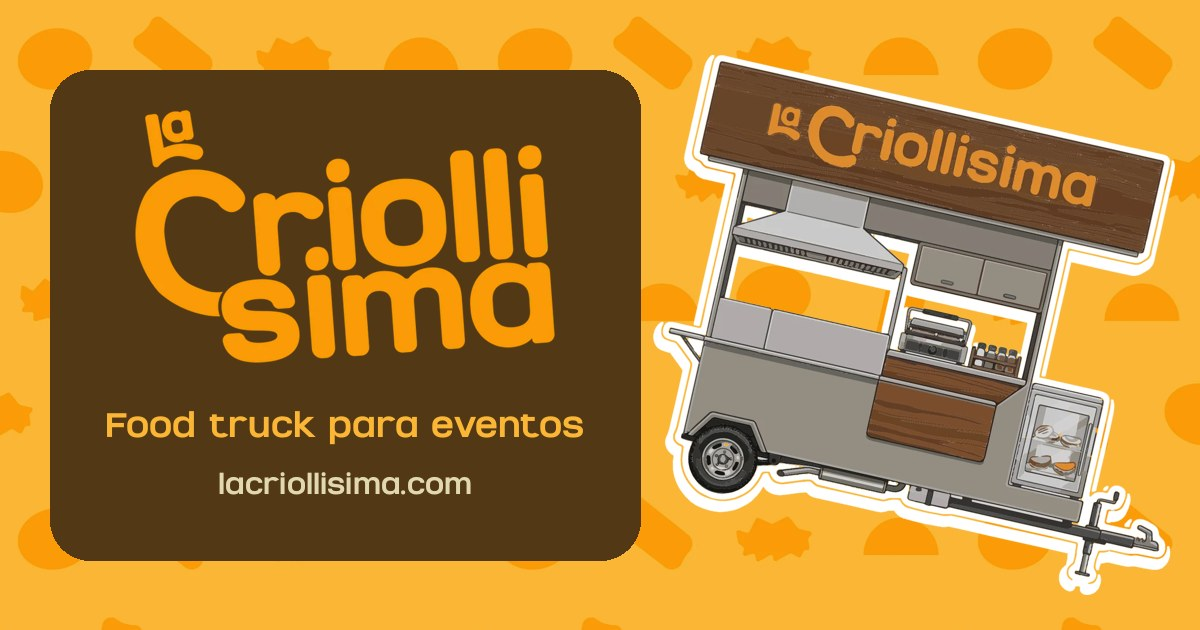
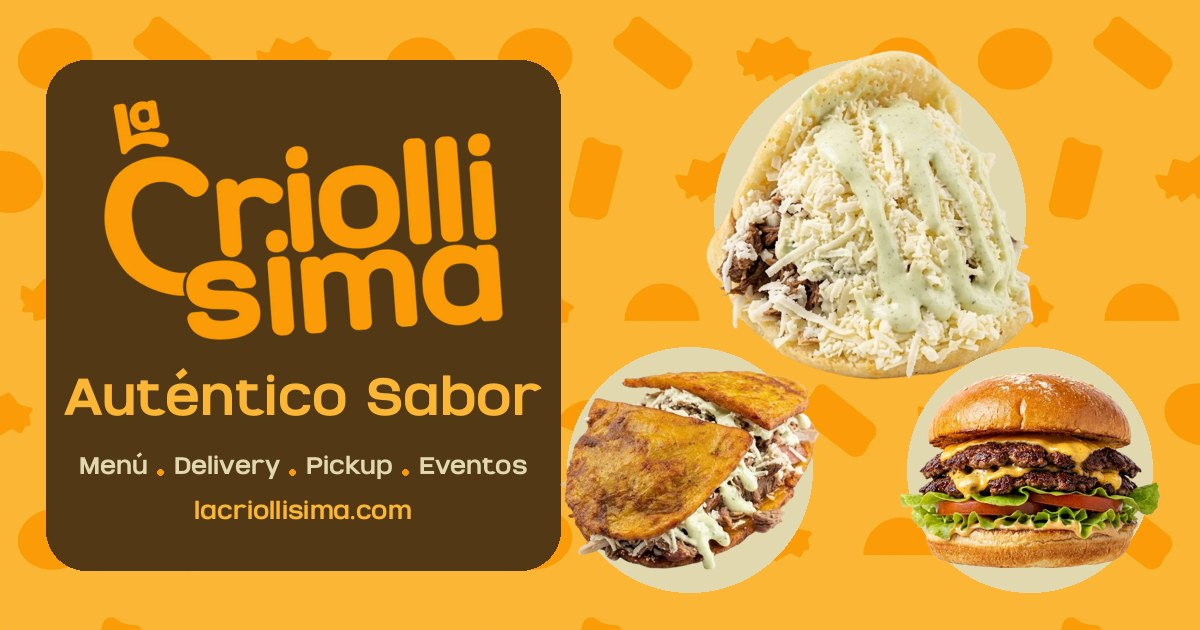
Nueva carátula al compartir; botones de pedido llevan a elegir delivery o pickup
Claude-Session: https://claude.ai/code/session_01EoPTKvU1ZUS4pUZSX4xZLg

diff --git a/menu.html b/menu.html
@@ -29,7 +29,7 @@
   <div class="wrap">
     <a class="marca" href="index.html"><img src="img/logo-horizontal.webp" alt="La Criollísima, ir al inicio" width="900" height="160"></a>
     <nav aria-label="Principal" class="nav-escritorio"><ul><li><a href="index.html">Inicio</a></li><li><a href="menu.html" aria-current="page">Menú</a></li><li><a href="delivery.html">Pedidos</a></li><li><a href="food-truck.html">Food truck</a></li><li><a href="conocenos.html">Conócenos</a></li><li><a href="contacto.html">Contacto</a></li></ul></nav>
-    <a class="pedir" href="https://wa.me/584246540852" data-wa="Hola, La Criollísima. Quiero hacer un pedido." target="_blank" rel="noopener"><svg viewBox="0 0 24 24" fill="currentColor" aria-hidden="true"><path d="M12 2a10 10 0 0 0-8.6 15.1L2 22l5-1.3A10 10 0 1 0 12 2Zm0 18.2a8.2 8.2 0 0 1-4.2-1.2l-.3-.2-3 .8.8-2.9-.2-.3A8.2 8.2 0 1 1 12 20.2Zm4.5-6.1c-.2-.1-1.5-.7-1.7-.8-.2-.1-.4-.1-.6.1l-.8 1c-.1.2-.3.2-.5.1a6.7 6.7 0 0 1-3.3-2.9c-.3-.4.3-.4.7-1.3.1-.2 0-.3 0-.4l-.8-1.8c-.2-.5-.4-.4-.6-.4h-.5a1 1 0 0 0-.7.3 3 3 0 0 0-.9 2.2 5.2 5.2 0 0 0 1.1 2.7 11.8 11.8 0 0 0 4.5 4c1.7.7 2.3.8 3.2.6.5-.1 1.5-.6 1.7-1.2.2-.6.2-1.1.2-1.2-.1-.1-.3-.2-.5-.3Z"/></svg><span class="txt-largo">Pedir por WhatsApp</span><span class="txt-corto">Pedir</span></a>
+    <a class="pedir" href="delivery.html#pedido"><svg viewBox="0 0 24 24" fill="none" stroke="currentColor" stroke-width="2.2" stroke-linecap="round" stroke-linejoin="round" aria-hidden="true"><path d="M5 8h14l-1.2 12H6.2L5 8Z"/><path d="M9 8V6a3 3 0 0 1 6 0v2"/></svg><span class="txt-largo">Hacer un pedido</span><span class="txt-corto">Pedir</span></a>
   </div>
 </header>
 <nav class="tabbar" aria-label="Secciones"><a href="index.html"><svg viewBox="0 0 24 24" fill="none" stroke="currentColor" stroke-width="2" stroke-linecap="round" stroke-linejoin="round" aria-hidden="true"><path d="M3 11.5 12 4l9 7.5"/><path d="M5.5 10v10h13V10"/><path d="M10 20v-5h4v5"/></svg><span>Inicio</span></a><a href="menu.html" aria-current="page"><svg viewBox="0 0 24 24" fill="none" stroke="currentColor" stroke-width="2" stroke-linecap="round" stroke-linejoin="round" aria-hidden="true"><path d="M7 3v8M4.5 3v5a2.5 2.5 0 0 0 5 0V3M7 11v10"/><path d="M17 21V3c-2 1-3.5 3.5-3.5 7 0 2 1 3 3.5 3"/></svg><span>Menú</span></a><a href="delivery.html"><svg viewBox="0 0 24 24" fill="none" stroke="currentColor" stroke-width="2" stroke-linecap="round" stroke-linejoin="round" aria-hidden="true"><path d="M5 8h14l-1.2 12H6.2L5 8Z"/><path d="M9 8V6a3 3 0 0 1 6 0v2"/></svg><span>Pedidos</span></a><a href="food-truck.html"><svg viewBox="0 0 24 24" fill="none" stroke="currentColor" stroke-width="2" stroke-linecap="round" stroke-linejoin="round" aria-hidden="true"><path d="M2.5 16V7h11v9"/><path d="M13.5 10h4l3.5 3.5V16"/><circle cx="7" cy="17.5" r="2"/><circle cx="17" cy="17.5" r="2"/><path d="M9 17.5h6"/></svg><span>Food truck</span></a><a href="conocenos.html"><svg viewBox="0 0 24 24" fill="none" stroke="currentColor" stroke-width="2" stroke-linecap="round" stroke-linejoin="round" aria-hidden="true"><path d="M12 20s-7.5-4.6-7.5-10A4.3 4.3 0 0 1 12 7.4 4.3 4.3 0 0 1 19.5 10c0 5.4-7.5 10-7.5 10Z"/></svg><span>Conócenos</span></a><a href="contacto.html"><svg viewBox="0 0 24 24" fill="none" stroke="currentColor" stroke-width="2" stroke-linecap="round" stroke-linejoin="round" aria-hidden="true"><path d="M12 21s-6.5-6.4-6.5-11.5a6.5 6.5 0 0 1 13 0C18.5 14.6 12 21 12 21Z"/><circle cx="12" cy="9.5" r="2.3"/></svg><span>Contacto</span></a></nav>
@@ -40,7 +40,7 @@
     <h1 id="t-menu">Nuestro menú</h1>
     <p class="lead">Dos sabores en una misma cocina: la línea <b>#AuténticoSabor</b>, con nuestras recetas premiadas, y la línea <b>#SaborCalle</b>, para los antojos de calle de siempre.</p>
     <div class="acciones">
-      <a class="btn" href="https://wa.me/584246540852" data-wa="Hola, La Criollísima. Quiero hacer un pedido." target="_blank" rel="noopener"><svg viewBox="0 0 24 24" fill="currentColor" aria-hidden="true"><path d="M12 2a10 10 0 0 0-8.6 15.1L2 22l5-1.3A10 10 0 1 0 12 2Zm0 18.2a8.2 8.2 0 0 1-4.2-1.2l-.3-.2-3 .8.8-2.9-.2-.3A8.2 8.2 0 1 1 12 20.2Zm4.5-6.1c-.2-.1-1.5-.7-1.7-.8-.2-.1-.4-.1-.6.1l-.8 1c-.1.2-.3.2-.5.1a6.7 6.7 0 0 1-3.3-2.9c-.3-.4.3-.4.7-1.3.1-.2 0-.3 0-.4l-.8-1.8c-.2-.5-.4-.4-.6-.4h-.5a1 1 0 0 0-.7.3 3 3 0 0 0-.9 2.2 5.2 5.2 0 0 0 1.1 2.7 11.8 11.8 0 0 0 4.5 4c1.7.7 2.3.8 3.2.6.5-.1 1.5-.6 1.7-1.2.2-.6.2-1.1.2-1.2-.1-.1-.3-.2-.5-.3Z"/></svg>Pedir por WhatsApp</a>
+      <a class="btn" href="delivery.html#pedido"><svg viewBox="0 0 24 24" fill="none" stroke="currentColor" stroke-width="2.2" stroke-linecap="round" stroke-linejoin="round" aria-hidden="true"><path d="M5 8h14l-1.2 12H6.2L5 8Z"/><path d="M9 8V6a3 3 0 0 1 6 0v2"/></svg>Hacer un pedido</a>
       <a class="btn claro" href="#combos">Ver combos</a>
     </div>
   </div>

diff --git a/food-truck.html b/food-truck.html
@@ -10,7 +10,7 @@
 <meta property="og:url" content="https://lacriollisima.com/food-truck">
 <meta property="og:title" content="Food truck para eventos · La Criollísima">
 <meta property="og:description" content="Llevamos el food truck de La Criollísima a tu evento: arepas, tacos, patacones, pepitos y hamburguesas hechos al momento.">
-<meta property="og:image" content="https://lacriollisima.com/img/vista-previa.jpg">
+<meta property="og:image" content="https://lacriollisima.com/img/vista-previa-food-truck.jpg">
 <meta property="og:image:width" content="1200">
 <meta property="og:image:height" content="630">
 <meta name="twitter:card" content="summary_large_image">
@@ -29,7 +29,7 @@
   <div class="wrap">
     <a class="marca" href="index.html"><img src="img/logo-horizontal.webp" alt="La Criollísima, ir al inicio" width="900" height="160"></a>
     <nav aria-label="Principal" class="nav-escritorio"><ul><li><a href="index.html">Inicio</a></li><li><a href="menu.html">Menú</a></li><li><a href="delivery.html">Pedidos</a></li><li><a href="food-truck.html" aria-current="page">Food truck</a></li><li><a href="conocenos.html">Conócenos</a></li><li><a href="contacto.html">Contacto</a></li></ul></nav>
-    <a class="pedir" href="https://wa.me/584246540852" data-wa="Hola, La Criollísima. Quiero hacer un pedido." target="_blank" rel="noopener"><svg viewBox="0 0 24 24" fill="currentColor" aria-hidden="true"><path d="M12 2a10 10 0 0 0-8.6 15.1L2 22l5-1.3A10 10 0 1 0 12 2Zm0 18.2a8.2 8.2 0 0 1-4.2-1.2l-.3-.2-3 .8.8-2.9-.2-.3A8.2 8.2 0 1 1 12 20.2Zm4.5-6.1c-.2-.1-1.5-.7-1.7-.8-.2-.1-.4-.1-.6.1l-.8 1c-.1.2-.3.2-.5.1a6.7 6.7 0 0 1-3.3-2.9c-.3-.4.3-.4.7-1.3.1-.2 0-.3 0-.4l-.8-1.8c-.2-.5-.4-.4-.6-.4h-.5a1 1 0 0 0-.7.3 3 3 0 0 0-.9 2.2 5.2 5.2 0 0 0 1.1 2.7 11.8 11.8 0 0 0 4.5 4c1.7.7 2.3.8 3.2.6.5-.1 1.5-.6 1.7-1.2.2-.6.2-1.1.2-1.2-.1-.1-.3-.2-.5-.3Z"/></svg><span class="txt-largo">Pedir por WhatsApp</span><span class="txt-corto">Pedir</span></a>
+    <a class="pedir" href="delivery.html#pedido"><svg viewBox="0 0 24 24" fill="none" stroke="currentColor" stroke-width="2.2" stroke-linecap="round" stroke-linejoin="round" aria-hidden="true"><path d="M5 8h14l-1.2 12H6.2L5 8Z"/><path d="M9 8V6a3 3 0 0 1 6 0v2"/></svg><span class="txt-largo">Hacer un pedido</span><span class="txt-corto">Pedir</span></a>
   </div>
 </header>
 <nav class="tabbar" aria-label="Secciones"><a href="index.html"><svg viewBox="0 0 24 24" fill="none" stroke="currentColor" stroke-width="2" stroke-linecap="round" stroke-linejoin="round" aria-hidden="true"><path d="M3 11.5 12 4l9 7.5"/><path d="M5.5 10v10h13V10"/><path d="M10 20v-5h4v5"/></svg><span>Inicio</span></a><a href="menu.html"><svg viewBox="0 0 24 24" fill="none" stroke="currentColor" stroke-width="2" stroke-linecap="round" stroke-linejoin="round" aria-hidden="true"><path d="M7 3v8M4.5 3v5a2.5 2.5 0 0 0 5 0V3M7 11v10"/><path d="M17 21V3c-2 1-3.5 3.5-3.5 7 0 2 1 3 3.5 3"/></svg><span>Menú</span></a><a href="delivery.html"><svg viewBox="0 0 24 24" fill="none" stroke="currentColor" stroke-width="2" stroke-linecap="round" stroke-linejoin="round" aria-hidden="true"><path d="M5 8h14l-1.2 12H6.2L5 8Z"/><path d="M9 8V6a3 3 0 0 1 6 0v2"/></svg><span>Pedidos</span></a><a href="food-truck.html" aria-current="page"><svg viewBox="0 0 24 24" fill="none" stroke="currentColor" stroke-width="2" stroke-linecap="round" stroke-linejoin="round" aria-hidden="true"><path d="M2.5 16V7h11v9"/><path d="M13.5 10h4l3.5 3.5V16"/><circle cx="7" cy="17.5" r="2"/><circle cx="17" cy="17.5" r="2"/><path d="M9 17.5h6"/></svg><span>Food truck</span></a><a href="conocenos.html"><svg viewBox="0 0 24 24" fill="none" stroke="currentColor" stroke-width="2" stroke-linecap="round" stroke-linejoin="round" aria-hidden="true"><path d="M12 20s-7.5-4.6-7.5-10A4.3 4.3 0 0 1 12 7.4 4.3 4.3 0 0 1 19.5 10c0 5.4-7.5 10-7.5 10Z"/></svg><span>Conócenos</span></a><a href="contacto.html"><svg viewBox="0 0 24 24" fill="none" stroke="currentColor" stroke-width="2" stroke-linecap="round" stroke-linejoin="round" aria-hidden="true"><path d="M12 21s-6.5-6.4-6.5-11.5a6.5 6.5 0 0 1 13 0C18.5 14.6 12 21 12 21Z"/><circle cx="12" cy="9.5" r="2.3"/></svg><span>Contacto</span></a></nav>

diff --git a/conocenos.html b/conocenos.html
@@ -29,7 +29,7 @@
   <div class="wrap">
     <a class="marca" href="index.html"><img src="img/logo-horizontal.webp" alt="La Criollísima, ir al inicio" width="900" height="160"></a>
     <nav aria-label="Principal" class="nav-escritorio"><ul><li><a href="index.html">Inicio</a></li><li><a href="menu.html">Menú</a></li><li><a href="delivery.html">Pedidos</a></li><li><a href="food-truck.html">Food truck</a></li><li><a href="conocenos.html" aria-current="page">Conócenos</a></li><li><a href="contacto.html">Contacto</a></li></ul></nav>
-    <a class="pedir" href="https://wa.me/584246540852" data-wa="Hola, La Criollísima. Quiero hacer un pedido." target="_blank" rel="noopener"><svg viewBox="0 0 24 24" fill="currentColor" aria-hidden="true"><path d="M12 2a10 10 0 0 0-8.6 15.1L2 22l5-1.3A10 10 0 1 0 12 2Zm0 18.2a8.2 8.2 0 0 1-4.2-1.2l-.3-.2-3 .8.8-2.9-.2-.3A8.2 8.2 0 1 1 12 20.2Zm4.5-6.1c-.2-.1-1.5-.7-1.7-.8-.2-.1-.4-.1-.6.1l-.8 1c-.1.2-.3.2-.5.1a6.7 6.7 0 0 1-3.3-2.9c-.3-.4.3-.4.7-1.3.1-.2 0-.3 0-.4l-.8-1.8c-.2-.5-.4-.4-.6-.4h-.5a1 1 0 0 0-.7.3 3 3 0 0 0-.9 2.2 5.2 5.2 0 0 0 1.1 2.7 11.8 11.8 0 0 0 4.5 4c1.7.7 2.3.8 3.2.6.5-.1 1.5-.6 1.7-1.2.2-.6.2-1.1.2-1.2-.1-.1-.3-.2-.5-.3Z"/></svg><span class="txt-largo">Pedir por WhatsApp</span><span class="txt-corto">Pedir</span></a>
+    <a class="pedir" href="delivery.html#pedido"><svg viewBox="0 0 24 24" fill="none" stroke="currentColor" stroke-width="2.2" stroke-linecap="round" stroke-linejoin="round" aria-hidden="true"><path d="M5 8h14l-1.2 12H6.2L5 8Z"/><path d="M9 8V6a3 3 0 0 1 6 0v2"/></svg><span class="txt-largo">Hacer un pedido</span><span class="txt-corto">Pedir</span></a>
   </div>
 </header>
 <nav class="tabbar" aria-label="Secciones"><a href="index.html"><svg viewBox="0 0 24 24" fill="none" stroke="currentColor" stroke-width="2" stroke-linecap="round" stroke-linejoin="round" aria-hidden="true"><path d="M3 11.5 12 4l9 7.5"/><path d="M5.5 10v10h13V10"/><path d="M10 20v-5h4v5"/></svg><span>Inicio</span></a><a href="menu.html"><svg viewBox="0 0 24 24" fill="none" stroke="currentColor" stroke-width="2" stroke-linecap="round" stroke-linejoin="round" aria-hidden="true"><path d="M7 3v8M4.5 3v5a2.5 2.5 0 0 0 5 0V3M7 11v10"/><path d="M17 21V3c-2 1-3.5 3.5-3.5 7 0 2 1 3 3.5 3"/></svg><span>Menú</span></a><a href="delivery.html"><svg viewBox="0 0 24 24" fill="none" stroke="currentColor" stroke-width="2" stroke-linecap="round" stroke-linejoin="round" aria-hidden="true"><path d="M5 8h14l-1.2 12H6.2L5 8Z"/><path d="M9 8V6a3 3 0 0 1 6 0v2"/></svg><span>Pedidos</span></a><a href="food-truck.html"><svg viewBox="0 0 24 24" fill="none" stroke="currentColor" stroke-width="2" stroke-linecap="round" stroke-linejoin="round" aria-hidden="true"><path d="M2.5 16V7h11v9"/><path d="M13.5 10h4l3.5 3.5V16"/><circle cx="7" cy="17.5" r="2"/><circle cx="17" cy="17.5" r="2"/><path d="M9 17.5h6"/></svg><span>Food truck</span></a><a href="conocenos.html" aria-current="page"><svg viewBox="0 0 24 24" fill="none" stroke="currentColor" stroke-width="2" stroke-linecap="round" stroke-linejoin="round" aria-hidden="true"><path d="M12 20s-7.5-4.6-7.5-10A4.3 4.3 0 0 1 12 7.4 4.3 4.3 0 0 1 19.5 10c0 5.4-7.5 10-7.5 10Z"/></svg><span>Conócenos</span></a><a href="contacto.html"><svg viewBox="0 0 24 24" fill="none" stroke="currentColor" stroke-width="2" stroke-linecap="round" stroke-linejoin="round" aria-hidden="true"><path d="M12 21s-6.5-6.4-6.5-11.5a6.5 6.5 0 0 1 13 0C18.5 14.6 12 21 12 21Z"/><circle cx="12" cy="9.5" r="2.3"/></svg><span>Contacto</span></a></nav>

diff --git a/contacto.html b/contacto.html
@@ -29,7 +29,7 @@
   <div class="wrap">
     <a class="marca" href="index.html"><img src="img/logo-horizontal.webp" alt="La Criollísima, ir al inicio" width="900" height="160"></a>
     <nav aria-label="Principal" class="nav-escritorio"><ul><li><a href="index.html">Inicio</a></li><li><a href="menu.html">Menú</a></li><li><a href="delivery.html">Pedidos</a></li><li><a href="food-truck.html">Food truck</a></li><li><a href="conocenos.html">Conócenos</a></li><li><a href="contacto.html" aria-current="page">Contacto</a></li></ul></nav>
-    <a class="pedir" href="https://wa.me/584246540852" data-wa="Hola, La Criollísima. Quiero hacer un pedido." target="_blank" rel="noopener"><svg viewBox="0 0 24 24" fill="currentColor" aria-hidden="true"><path d="M12 2a10 10 0 0 0-8.6 15.1L2 22l5-1.3A10 10 0 1 0 12 2Zm0 18.2a8.2 8.2 0 0 1-4.2-1.2l-.3-.2-3 .8.8-2.9-.2-.3A8.2 8.2 0 1 1 12 20.2Zm4.5-6.1c-.2-.1-1.5-.7-1.7-.8-.2-.1-.4-.1-.6.1l-.8 1c-.1.2-.3.2-.5.1a6.7 6.7 0 0 1-3.3-2.9c-.3-.4.3-.4.7-1.3.1-.2 0-.3 0-.4l-.8-1.8c-.2-.5-.4-.4-.6-.4h-.5a1 1 0 0 0-.7.3 3 3 0 0 0-.9 2.2 5.2 5.2 0 0 0 1.1 2.7 11.8 11.8 0 0 0 4.5 4c1.7.7 2.3.8 3.2.6.5-.1 1.5-.6 1.7-1.2.2-.6.2-1.1.2-1.2-.1-.1-.3-.2-.5-.3Z"/></svg><span class="txt-largo">Pedir por WhatsApp</span><span class="txt-corto">Pedir</span></a>
+    <a class="pedir" href="delivery.html#pedido"><svg viewBox="0 0 24 24" fill="none" stroke="currentColor" stroke-width="2.2" stroke-linecap="round" stroke-linejoin="round" aria-hidden="true"><path d="M5 8h14l-1.2 12H6.2L5 8Z"/><path d="M9 8V6a3 3 0 0 1 6 0v2"/></svg><span class="txt-largo">Hacer un pedido</span><span class="txt-corto">Pedir</span></a>
   </div>
 </header>
 <nav class="tabbar" aria-label="Secciones"><a href="index.html"><svg viewBox="0 0 24 24" fill="none" stroke="currentColor" stroke-width="2" stroke-linecap="round" stroke-linejoin="round" aria-hidden="true"><path d="M3 11.5 12 4l9 7.5"/><path d="M5.5 10v10h13V10"/><path d="M10 20v-5h4v5"/></svg><span>Inicio</span></a><a href="menu.html"><svg viewBox="0 0 24 24" fill="none" stroke="currentColor" stroke-width="2" stroke-linecap="round" stroke-linejoin="round" aria-hidden="true"><path d="M7 3v8M4.5 3v5a2.5 2.5 0 0 0 5 0V3M7 11v10"/><path d="M17 21V3c-2 1-3.5 3.5-3.5 7 0 2 1 3 3.5 3"/></svg><span>Menú</span></a><a href="delivery.html"><svg viewBox="0 0 24 24" fill="none" stroke="currentColor" stroke-width="2" stroke-linecap="round" stroke-linejoin="round" aria-hidden="true"><path d="M5 8h14l-1.2 12H6.2L5 8Z"/><path d="M9 8V6a3 3 0 0 1 6 0v2"/></svg><span>Pedidos</span></a><a href="food-truck.html"><svg viewBox="0 0 24 24" fill="none" stroke="currentColor" stroke-width="2" stroke-linecap="round" stroke-linejoin="round" aria-hidden="true"><path d="M2.5 16V7h11v9"/><path d="M13.5 10h4l3.5 3.5V16"/><circle cx="7" cy="17.5" r="2"/><circle cx="17" cy="17.5" r="2"/><path d="M9 17.5h6"/></svg><span>Food truck</span></a><a href="conocenos.html"><svg viewBox="0 0 24 24" fill="none" stroke="currentColor" stroke-width="2" stroke-linecap="round" stroke-linejoin="round" aria-hidden="true"><path d="M12 20s-7.5-4.6-7.5-10A4.3 4.3 0 0 1 12 7.4 4.3 4.3 0 0 1 19.5 10c0 5.4-7.5 10-7.5 10Z"/></svg><span>Conócenos</span></a><a href="contacto.html" aria-current="page"><svg viewBox="0 0 24 24" fill="none" stroke="currentColor" stroke-width="2" stroke-linecap="round" stroke-linejoin="round" aria-hidden="true"><path d="M12 21s-6.5-6.4-6.5-11.5a6.5 6.5 0 0 1 13 0C18.5 14.6 12 21 12 21Z"/><circle cx="12" cy="9.5" r="2.3"/></svg><span>Contacto</span></a></nav>

diff --git a/delivery.html b/delivery.html
@@ -29,7 +29,7 @@
   <div class="wrap">
     <a class="marca" href="index.html"><img src="img/logo-horizontal.webp" alt="La Criollísima, ir al inicio" width="900" height="160"></a>
     <nav aria-label="Principal" class="nav-escritorio"><ul><li><a href="index.html">Inicio</a></li><li><a href="menu.html">Menú</a></li><li><a href="delivery.html" aria-current="page">Pedidos</a></li><li><a href="food-truck.html">Food truck</a></li><li><a href="conocenos.html">Conócenos</a></li><li><a href="contacto.html">Contacto</a></li></ul></nav>
-    <a class="pedir" href="https://wa.me/584246540852" data-wa="Hola, La Criollísima. Quiero hacer un pedido." target="_blank" rel="noopener"><svg viewBox="0 0 24 24" fill="currentColor" aria-hidden="true"><path d="M12 2a10 10 0 0 0-8.6 15.1L2 22l5-1.3A10 10 0 1 0 12 2Zm0 18.2a8.2 8.2 0 0 1-4.2-1.2l-.3-.2-3 .8.8-2.9-.2-.3A8.2 8.2 0 1 1 12 20.2Zm4.5-6.1c-.2-.1-1.5-.7-1.7-.8-.2-.1-.4-.1-.6.1l-.8 1c-.1.2-.3.2-.5.1a6.7 6.7 0 0 1-3.3-2.9c-.3-.4.3-.4.7-1.3.1-.2 0-.3 0-.4l-.8-1.8c-.2-.5-.4-.4-.6-.4h-.5a1 1 0 0 0-.7.3 3 3 0 0 0-.9 2.2 5.2 5.2 0 0 0 1.1 2.7 11.8 11.8 0 0 0 4.5 4c1.7.7 2.3.8 3.2.6.5-.1 1.5-.6 1.7-1.2.2-.6.2-1.1.2-1.2-.1-.1-.3-.2-.5-.3Z"/></svg><span class="txt-largo">Pedir por WhatsApp</span><span class="txt-corto">Pedir</span></a>
+    <a class="pedir" href="delivery.html#pedido"><svg viewBox="0 0 24 24" fill="none" stroke="currentColor" stroke-width="2.2" stroke-linecap="round" stroke-linejoin="round" aria-hidden="true"><path d="M5 8h14l-1.2 12H6.2L5 8Z"/><path d="M9 8V6a3 3 0 0 1 6 0v2"/></svg><span class="txt-largo">Hacer un pedido</span><span class="txt-corto">Pedir</span></a>
   </div>
 </header>
 <nav class="tabbar" aria-label="Secciones"><a href="index.html"><svg viewBox="0 0 24 24" fill="none" stroke="currentColor" stroke-width="2" stroke-linecap="round" stroke-linejoin="round" aria-hidden="true"><path d="M3 11.5 12 4l9 7.5"/><path d="M5.5 10v10h13V10"/><path d="M10 20v-5h4v5"/></svg><span>Inicio</span></a><a href="menu.html"><svg viewBox="0 0 24 24" fill="none" stroke="currentColor" stroke-width="2" stroke-linecap="round" stroke-linejoin="round" aria-hidden="true"><path d="M7 3v8M4.5 3v5a2.5 2.5 0 0 0 5 0V3M7 11v10"/><path d="M17 21V3c-2 1-3.5 3.5-3.5 7 0 2 1 3 3.5 3"/></svg><span>Menú</span></a><a href="delivery.html" aria-current="page"><svg viewBox="0 0 24 24" fill="none" stroke="currentColor" stroke-width="2" stroke-linecap="round" stroke-linejoin="round" aria-hidden="true"><path d="M5 8h14l-1.2 12H6.2L5 8Z"/><path d="M9 8V6a3 3 0 0 1 6 0v2"/></svg><span>Pedidos</span></a><a href="food-truck.html"><svg viewBox="0 0 24 24" fill="none" stroke="currentColor" stroke-width="2" stroke-linecap="round" stroke-linejoin="round" aria-hidden="true"><path d="M2.5 16V7h11v9"/><path d="M13.5 10h4l3.5 3.5V16"/><circle cx="7" cy="17.5" r="2"/><circle cx="17" cy="17.5" r="2"/><path d="M9 17.5h6"/></svg><span>Food truck</span></a><a href="conocenos.html"><svg viewBox="0 0 24 24" fill="none" stroke="currentColor" stroke-width="2" stroke-linecap="round" stroke-linejoin="round" aria-hidden="true"><path d="M12 20s-7.5-4.6-7.5-10A4.3 4.3 0 0 1 12 7.4 4.3 4.3 0 0 1 19.5 10c0 5.4-7.5 10-7.5 10Z"/></svg><span>Conócenos</span></a><a href="contacto.html"><svg viewBox="0 0 24 24" fill="none" stroke="currentColor" stroke-width="2" stroke-linecap="round" stroke-linejoin="round" aria-hidden="true"><path d="M12 21s-6.5-6.4-6.5-11.5a6.5 6.5 0 0 1 13 0C18.5 14.6 12 21 12 21Z"/><circle cx="12" cy="9.5" r="2.3"/></svg><span>Contacto</span></a></nav>

diff --git a/index.html b/index.html
@@ -29,7 +29,7 @@
   <div class="wrap">
     <a class="marca" href="index.html"><img src="img/logo-horizontal.webp" alt="La Criollísima, ir al inicio" width="900" height="160"></a>
     <nav aria-label="Principal" class="nav-escritorio"><ul><li><a href="index.html" aria-current="page">Inicio</a></li><li><a href="menu.html">Menú</a></li><li><a href="delivery.html">Pedidos</a></li><li><a href="food-truck.html">Food truck</a></li><li><a href="conocenos.html">Conócenos</a></li><li><a href="contacto.html">Contacto</a></li></ul></nav>
-    <a class="pedir" href="https://wa.me/584246540852" data-wa="Hola, La Criollísima. Quiero hacer un pedido." target="_blank" rel="noopener"><svg viewBox="0 0 24 24" fill="currentColor" aria-hidden="true"><path d="M12 2a10 10 0 0 0-8.6 15.1L2 22l5-1.3A10 10 0 1 0 12 2Zm0 18.2a8.2 8.2 0 0 1-4.2-1.2l-.3-.2-3 .8.8-2.9-.2-.3A8.2 8.2 0 1 1 12 20.2Zm4.5-6.1c-.2-.1-1.5-.7-1.7-.8-.2-.1-.4-.1-.6.1l-.8 1c-.1.2-.3.2-.5.1a6.7 6.7 0 0 1-3.3-2.9c-.3-.4.3-.4.7-1.3.1-.2 0-.3 0-.4l-.8-1.8c-.2-.5-.4-.4-.6-.4h-.5a1 1 0 0 0-.7.3 3 3 0 0 0-.9 2.2 5.2 5.2 0 0 0 1.1 2.7 11.8 11.8 0 0 0 4.5 4c1.7.7 2.3.8 3.2.6.5-.1 1.5-.6 1.7-1.2.2-.6.2-1.1.2-1.2-.1-.1-.3-.2-.5-.3Z"/></svg><span class="txt-largo">Pedir por WhatsApp</span><span class="txt-corto">Pedir</span></a>
+    <a class="pedir" href="delivery.html#pedido"><svg viewBox="0 0 24 24" fill="none" stroke="currentColor" stroke-width="2.2" stroke-linecap="round" stroke-linejoin="round" aria-hidden="true"><path d="M5 8h14l-1.2 12H6.2L5 8Z"/><path d="M9 8V6a3 3 0 0 1 6 0v2"/></svg><span class="txt-largo">Hacer un pedido</span><span class="txt-corto">Pedir</span></a>
   </div>
 </header>
 <nav class="tabbar" aria-label="Secciones"><a href="index.html" aria-current="page"><svg viewBox="0 0 24 24" fill="none" stroke="currentColor" stroke-width="2" stroke-linecap="round" stroke-linejoin="round" aria-hidden="true"><path d="M3 11.5 12 4l9 7.5"/><path d="M5.5 10v10h13V10"/><path d="M10 20v-5h4v5"/></svg><span>Inicio</span></a><a href="menu.html"><svg viewBox="0 0 24 24" fill="none" stroke="currentColor" stroke-width="2" stroke-linecap="round" stroke-linejoin="round" aria-hidden="true"><path d="M7 3v8M4.5 3v5a2.5 2.5 0 0 0 5 0V3M7 11v10"/><path d="M17 21V3c-2 1-3.5 3.5-3.5 7 0 2 1 3 3.5 3"/></svg><span>Menú</span></a><a href="delivery.html"><svg viewBox="0 0 24 24" fill="none" stroke="currentColor" stroke-width="2" stroke-linecap="round" stroke-linejoin="round" aria-hidden="true"><path d="M5 8h14l-1.2 12H6.2L5 8Z"/><path d="M9 8V6a3 3 0 0 1 6 0v2"/></svg><span>Pedidos</span></a><a href="food-truck.html"><svg viewBox="0 0 24 24" fill="none" stroke="currentColor" stroke-width="2" stroke-linecap="round" stroke-linejoin="round" aria-hidden="true"><path d="M2.5 16V7h11v9"/><path d="M13.5 10h4l3.5 3.5V16"/><circle cx="7" cy="17.5" r="2"/><circle cx="17" cy="17.5" r="2"/><path d="M9 17.5h6"/></svg><span>Food truck</span></a><a href="conocenos.html"><svg viewBox="0 0 24 24" fill="none" stroke="currentColor" stroke-width="2" stroke-linecap="round" stroke-linejoin="round" aria-hidden="true"><path d="M12 20s-7.5-4.6-7.5-10A4.3 4.3 0 0 1 12 7.4 4.3 4.3 0 0 1 19.5 10c0 5.4-7.5 10-7.5 10Z"/></svg><span>Conócenos</span></a><a href="contacto.html"><svg viewBox="0 0 24 24" fill="none" stroke="currentColor" stroke-width="2" stroke-linecap="round" stroke-linejoin="round" aria-hidden="true"><path d="M12 21s-6.5-6.4-6.5-11.5a6.5 6.5 0 0 1 13 0C18.5 14.6 12 21 12 21Z"/><circle cx="12" cy="9.5" r="2.3"/></svg><span>Contacto</span></a></nav>

diff --git a/404.html b/404.html
@@ -29,7 +29,7 @@
   <div class="wrap">
     <a class="marca" href="/index.html"><img src="/img/logo-horizontal.webp" alt="La Criollísima, ir al inicio" width="900" height="160"></a>
     <nav aria-label="Principal" class="nav-escritorio"><ul><li><a href="/index.html">Inicio</a></li><li><a href="/menu.html">Menú</a></li><li><a href="/delivery.html">Pedidos</a></li><li><a href="/food-truck.html">Food truck</a></li><li><a href="/conocenos.html">Conócenos</a></li><li><a href="/contacto.html">Contacto</a></li></ul></nav>
-    <a class="pedir" href="https://wa.me/584246540852" data-wa="Hola, La Criollísima. Quiero hacer un pedido." target="_blank" rel="noopener"><svg viewBox="0 0 24 24" fill="currentColor" aria-hidden="true"><path d="M12 2a10 10 0 0 0-8.6 15.1L2 22l5-1.3A10 10 0 1 0 12 2Zm0 18.2a8.2 8.2 0 0 1-4.2-1.2l-.3-.2-3 .8.8-2.9-.2-.3A8.2 8.2 0 1 1 12 20.2Zm4.5-6.1c-.2-.1-1.5-.7-1.7-.8-.2-.1-.4-.1-.6.1l-.8 1c-.1.2-.3.2-.5.1a6.7 6.7 0 0 1-3.3-2.9c-.3-.4.3-.4.7-1.3.1-.2 0-.3 0-.4l-.8-1.8c-.2-.5-.4-.4-.6-.4h-.5a1 1 0 0 0-.7.3 3 3 0 0 0-.9 2.2 5.2 5.2 0 0 0 1.1 2.7 11.8 11.8 0 0 0 4.5 4c1.7.7 2.3.8 3.2.6.5-.1 1.5-.6 1.7-1.2.2-.6.2-1.1.2-1.2-.1-.1-.3-.2-.5-.3Z"/></svg><span class="txt-largo">Pedir por WhatsApp</span><span class="txt-corto">Pedir</span></a>
+    <a class="pedir" href="/delivery.html#pedido"><svg viewBox="0 0 24 24" fill="none" stroke="currentColor" stroke-width="2.2" stroke-linecap="round" stroke-linejoin="round" aria-hidden="true"><path d="M5 8h14l-1.2 12H6.2L5 8Z"/><path d="M9 8V6a3 3 0 0 1 6 0v2"/></svg><span class="txt-largo">Hacer un pedido</span><span class="txt-corto">Pedir</span></a>
   </div>
 </header>
 <nav class="tabbar" aria-label="Secciones"><a href="/index.html"><svg viewBox="0 0 24 24" fill="none" stroke="currentColor" stroke-width="2" stroke-linecap="round" stroke-linejoin="round" aria-hidden="true"><path d="M3 11.5 12 4l9 7.5"/><path d="M5.5 10v10h13V10"/><path d="M10 20v-5h4v5"/></svg><span>Inicio</span></a><a href="/menu.html"><svg viewBox="0 0 24 24" fill="none" stroke="currentColor" stroke-width="2" stroke-linecap="round" stroke-linejoin="round" aria-hidden="true"><path d="M7 3v8M4.5 3v5a2.5 2.5 0 0 0 5 0V3M7 11v10"/><path d="M17 21V3c-2 1-3.5 3.5-3.5 7 0 2 1 3 3.5 3"/></svg><span>Menú</span></a><a href="/delivery.html"><svg viewBox="0 0 24 24" fill="none" stroke="currentColor" stroke-width="2" stroke-linecap="round" stroke-linejoin="round" aria-hidden="true"><path d="M5 8h14l-1.2 12H6.2L5 8Z"/><path d="M9 8V6a3 3 0 0 1 6 0v2"/></svg><span>Pedidos</span></a><a href="/food-truck.html"><svg viewBox="0 0 24 24" fill="none" stroke="currentColor" stroke-width="2" stroke-linecap="round" stroke-linejoin="round" aria-hidden="true"><path d="M2.5 16V7h11v9"/><path d="M13.5 10h4l3.5 3.5V16"/><circle cx="7" cy="17.5" r="2"/><circle cx="17" cy="17.5" r="2"/><path d="M9 17.5h6"/></svg><span>Food truck</span></a><a href="/conocenos.html"><svg viewBox="0 0 24 24" fill="none" stroke="currentColor" stroke-width="2" stroke-linecap="round" stroke-linejoin="round" aria-hidden="true"><path d="M12 20s-7.5-4.6-7.5-10A4.3 4.3 0 0 1 12 7.4 4.3 4.3 0 0 1 19.5 10c0 5.4-7.5 10-7.5 10Z"/></svg><span>Conócenos</span></a><a href="/contacto.html"><svg viewBox="0 0 24 24" fill="none" stroke="currentColor" stroke-width="2" stroke-linecap="round" stroke-linejoin="round" aria-hidden="true"><path d="M12 21s-6.5-6.4-6.5-11.5a6.5 6.5 0 0 1 13 0C18.5 14.6 12 21 12 21Z"/><circle cx="12" cy="9.5" r="2.3"/></svg><span>Contacto</span></a></nav>
